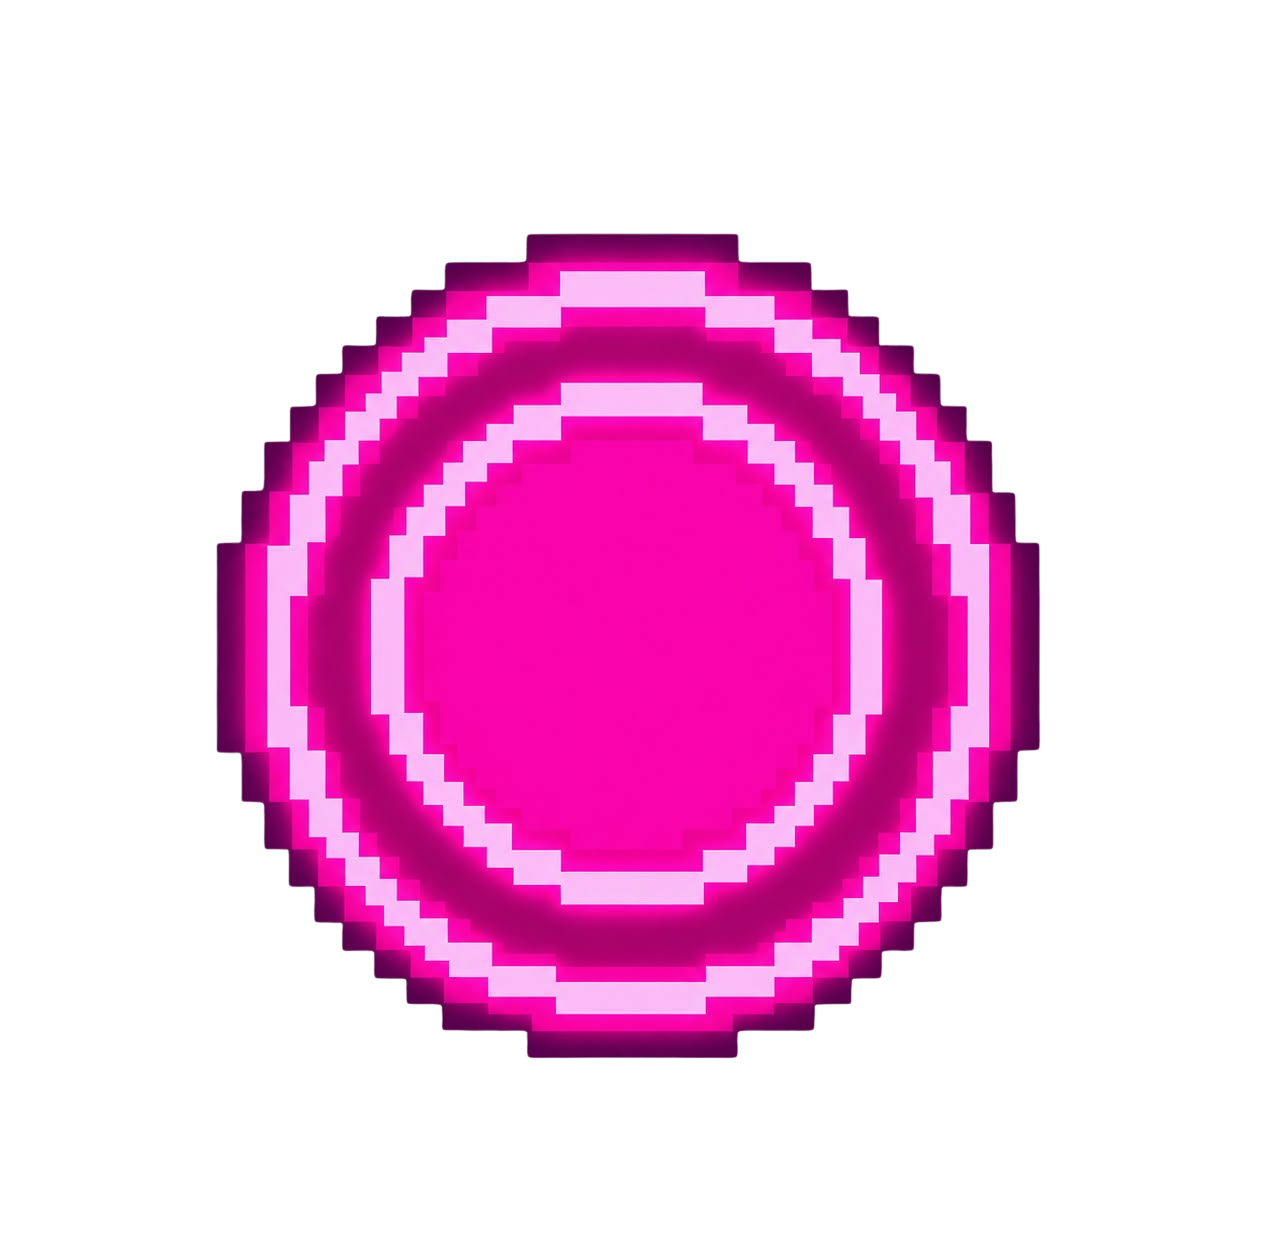
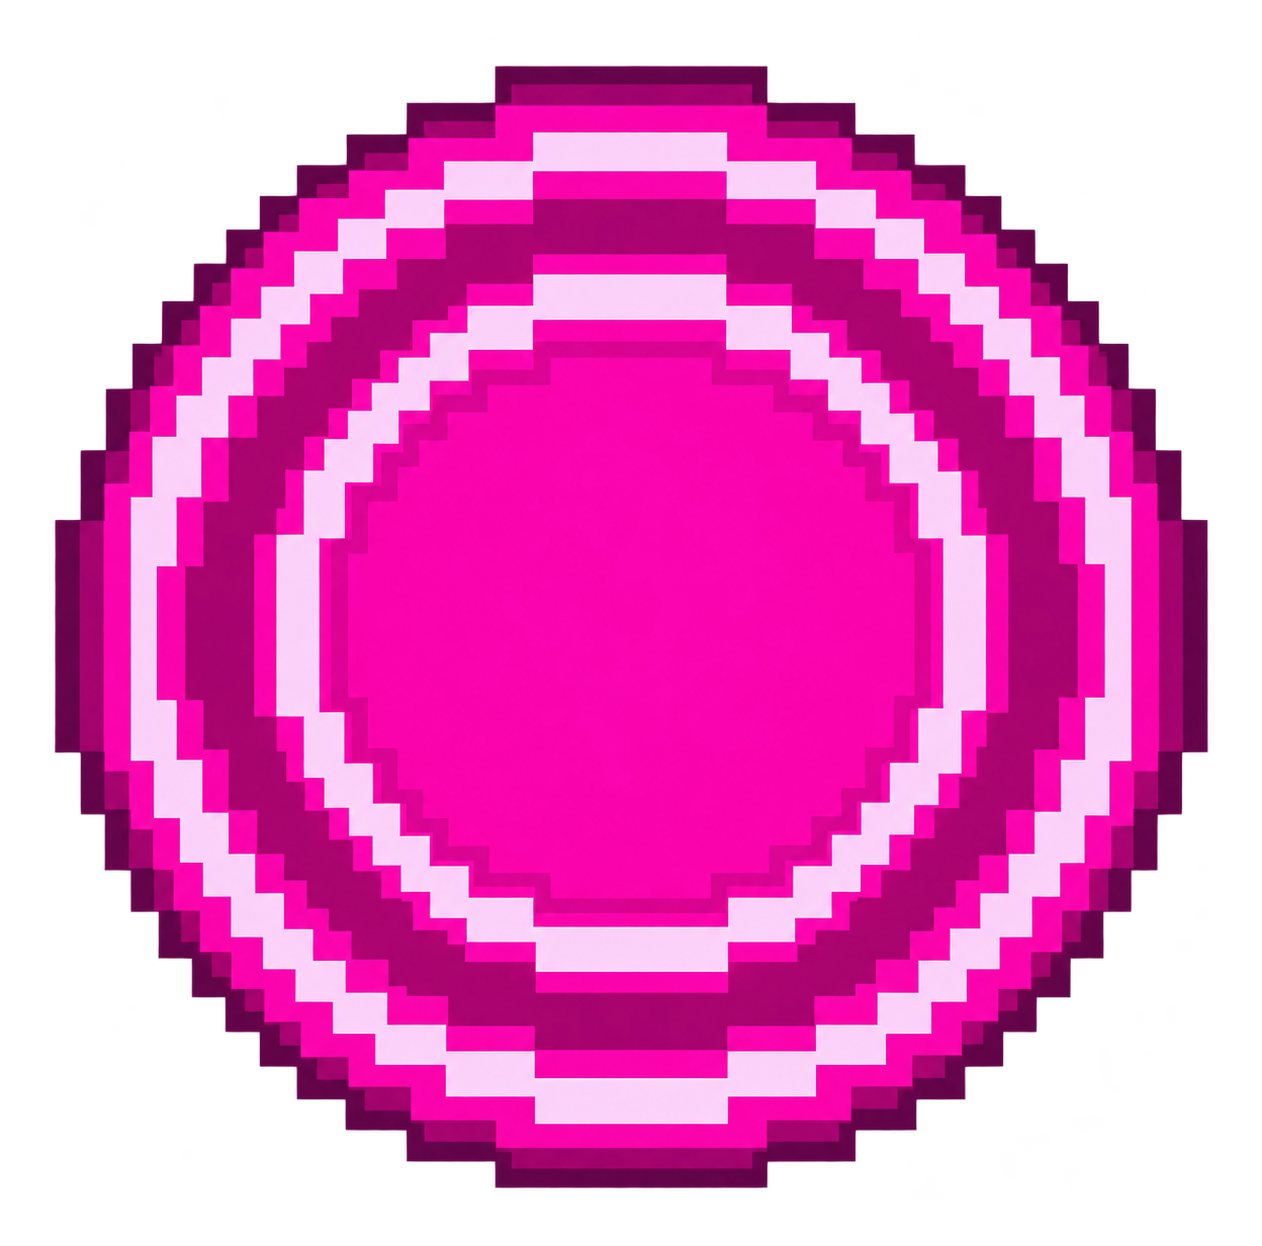
se reemplazaron las notas por unas mas grandes y claras para que al jugador no le sea complicado verlas y presionar al igual que se modifico parte del texto del tutorial para que sea visualmente mas claro, sencillo y facil de leer y entender.

diff --git a/js/game.js b/js/game.js
@@ -4322,14 +4322,6 @@ if (
       115
     );
 
-    ctx.fillStyle = "#ffffff";
-    ctx.font = "17px Silkscreen";
-
-    ctx.fillText(
-      "Conoce las notas antes del duelo",
-      640,
-      150
-    );
 
     const items = [
       {
@@ -4369,7 +4361,7 @@ if (
 
       ctx.textAlign = "left";
       ctx.fillStyle = "#ffffff";
-      ctx.font = "bold 18px Silkscreen";
+      ctx.font = "bold 20px Silkscreen";
 
       ctx.fillText(
         item.title,
@@ -4387,7 +4379,7 @@ if (
     }
 
     ctx.textAlign = "center";
-    ctx.fillStyle = "#ffdc69";
+    ctx.fillStyle = "#781111";
     ctx.font = "15px Silkscreen";
 
     ctx.fillText(
